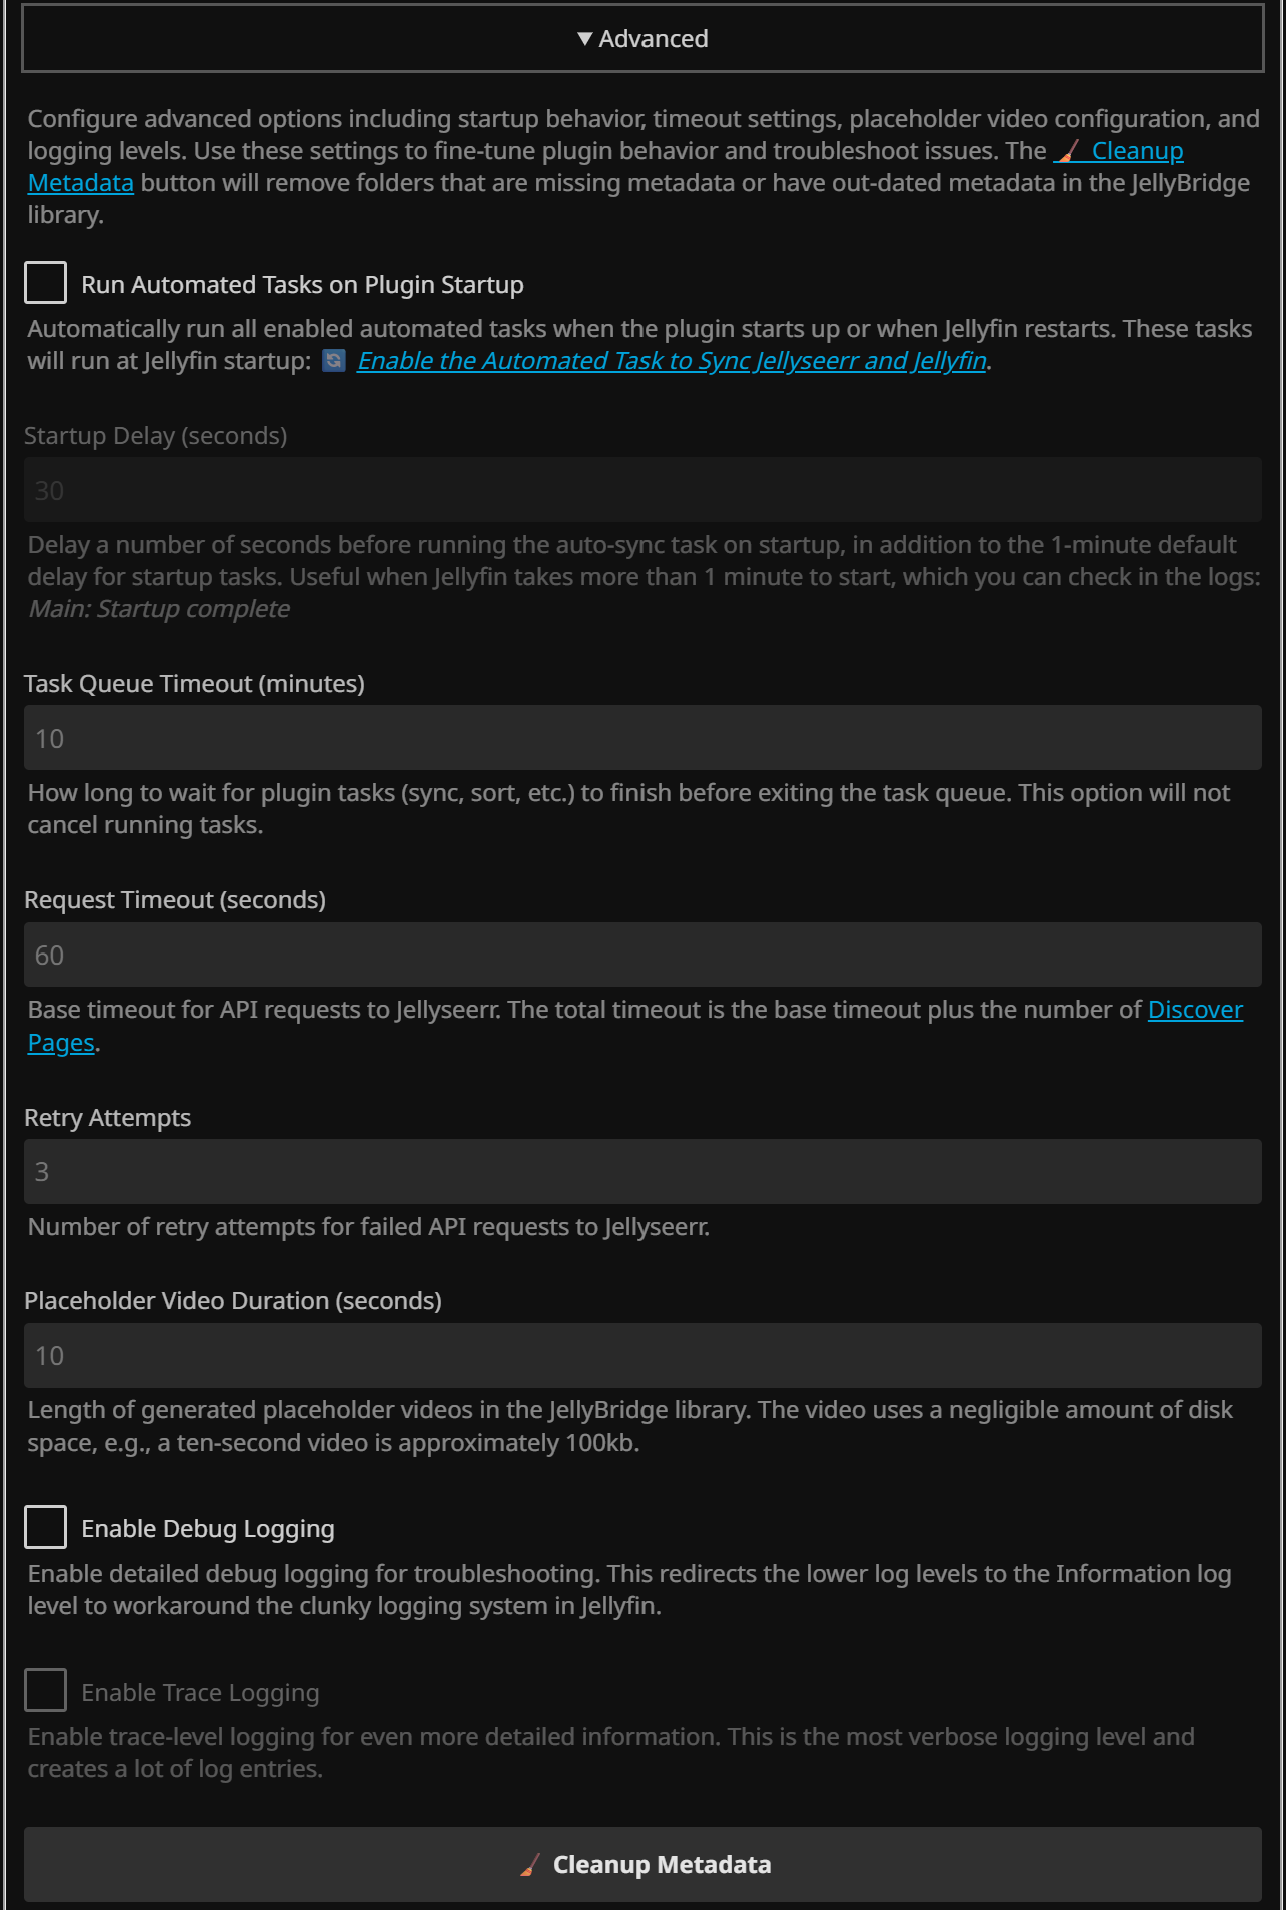
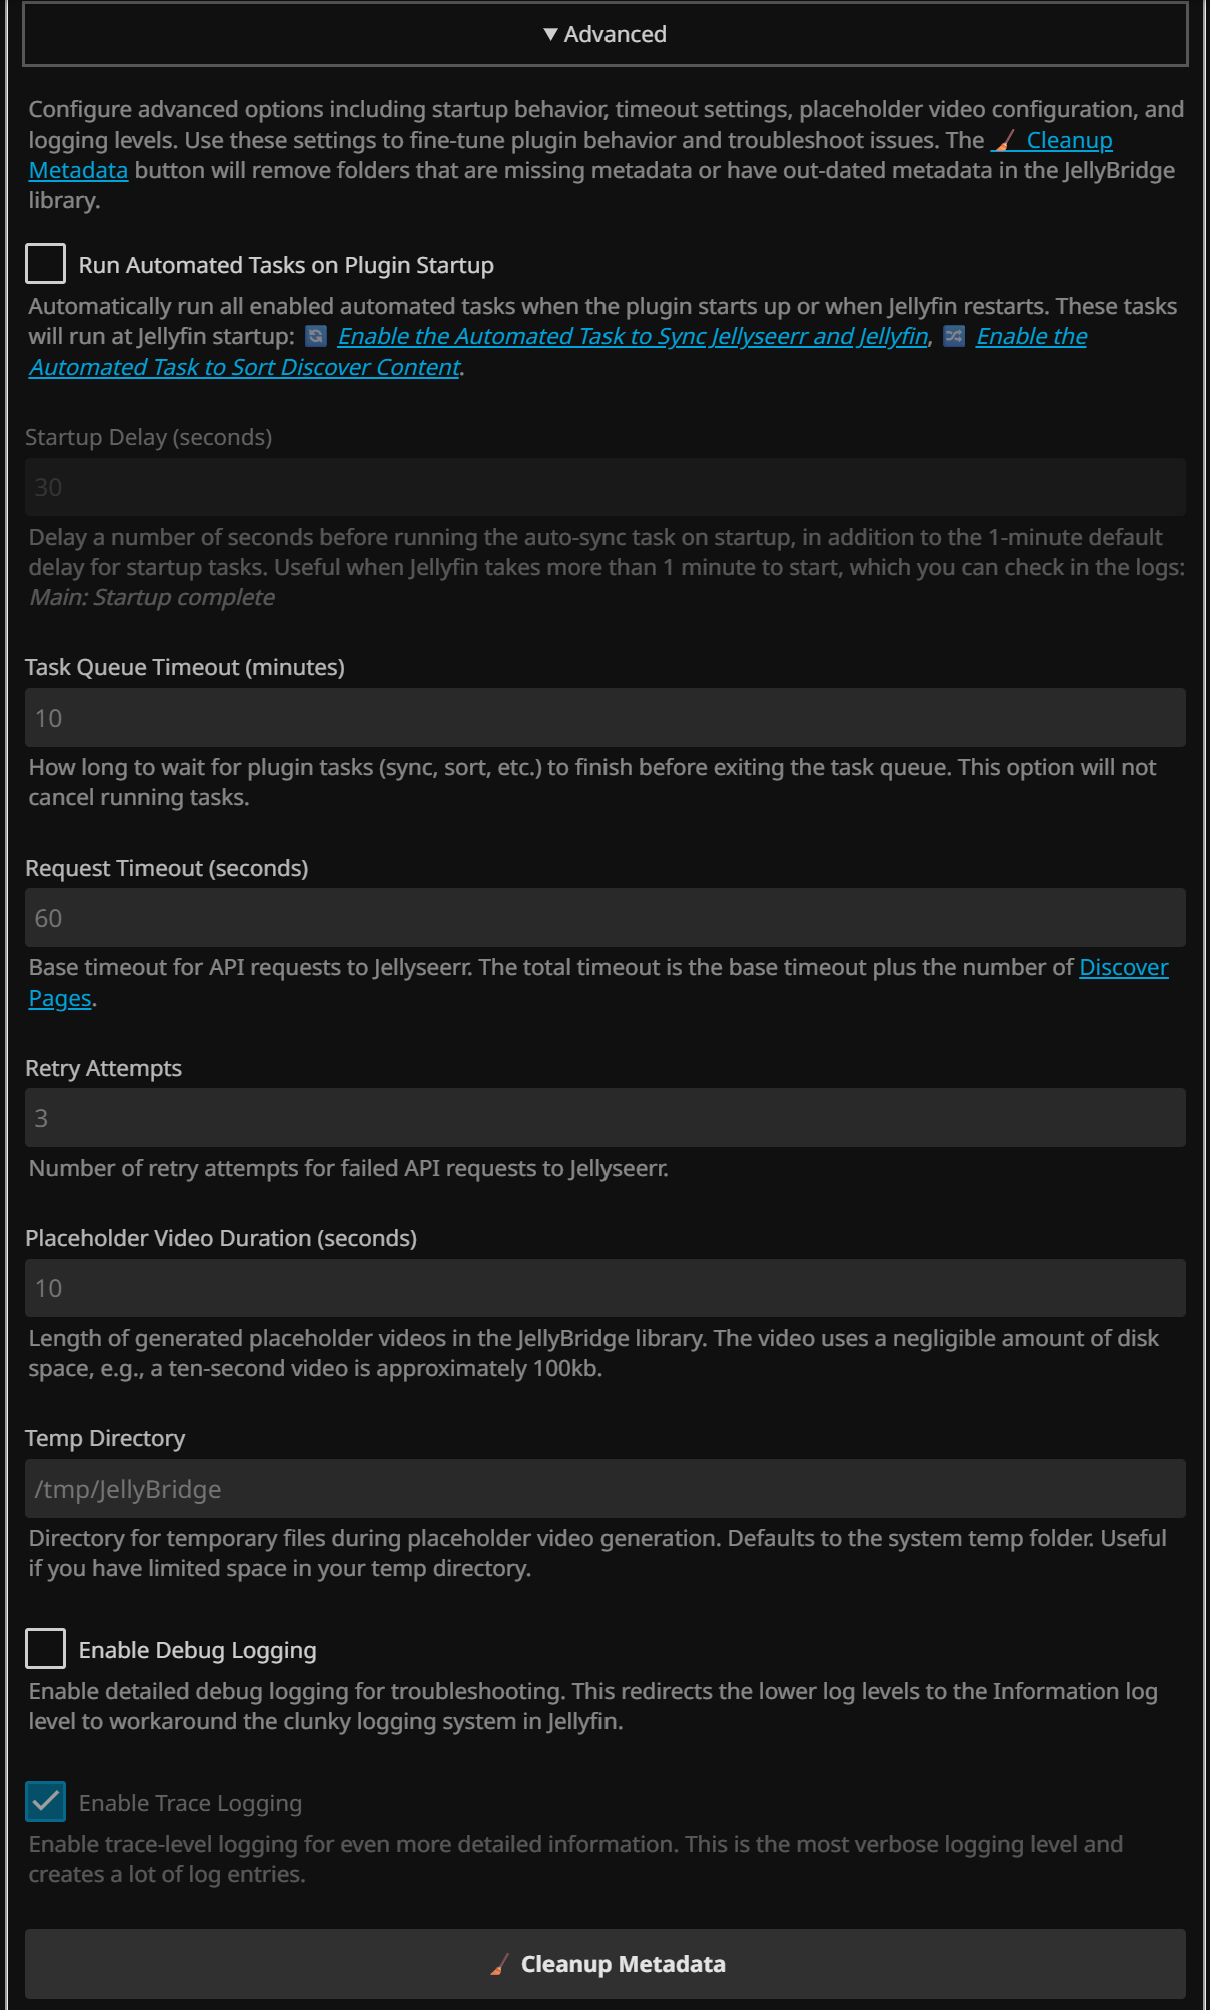
updating docs

diff --git a/src/Jellyfin.Plugin.JellyBridge/Configuration/ConfigurationPage.html b/src/Jellyfin.Plugin.JellyBridge/Configuration/ConfigurationPage.html
@@ -459,7 +459,7 @@
                     </div>
 
                     <div class="inputContainer" id="SyncIntervalHoursContainer">
-                        <input is="emby-input" type="number" id="SyncIntervalHours" label="Sync Interval (Hours)" min="0" max="168" step="0.1"/>
+                        <input is="emby-input" type="number" id="SyncIntervalHours" label="Sync Interval (hours)" min="0" max="168" step="0.1"/>
                         <div class="fieldDescription">Defines how often to run the scheduled sync task, allowing partial hours, e.g., 1.5. Set to 0 to disable automatic syncing. <i>Note: Jellyfin delays scheduled tasks for exactly one hour after first-time install and some version upgrades of the plugin.</i></div>
                     </div>
 
@@ -597,7 +597,7 @@
                         </div>
 
                         <div class="inputContainer">
-                            <input id="MaxRetentionDays" type="number" is="emby-input" min="1" label="Content Retention Time (Days)"/>
+                            <input id="MaxRetentionDays" type="number" is="emby-input" min="1" label="Content Retention Time (days)"/>
                             <div class="fieldDescription">Maximum number of days to retain items in the collection before cleanup. JellyBridge items older than this will be removed after running the import task.</div>
                         </div>
 
@@ -765,7 +765,7 @@
                         </div>
 
                         <div class="inputContainer" id="SortTaskIntervalHoursContainer">
-                            <input is="emby-input" type="number" id="SortTaskIntervalHours" label="Sort Task Interval (Hours)" min="0" max="168" step="0.1"/>
+                            <input is="emby-input" type="number" id="SortTaskIntervalHours" label="Sort Task Interval (hours)" min="0" max="168" step="0.1"/>
                             <div class="fieldDescription">Defines how often to run the sort task, allowing partial hours, e.g., 1.5. Set to 0 to disable automatic sort randomization. <i>Note: Jellyfin delays scheduled tasks for exactly one hour after first-time install and some version upgrades of the plugin.</i></div>
                         </div>
 

diff --git a/src/Jellyfin.Plugin.JellyBridge/Configuration/PluginConfiguration.cs b/src/Jellyfin.Plugin.JellyBridge/Configuration/PluginConfiguration.cs
@@ -54,6 +54,7 @@ public class PluginConfiguration : BasePluginConfiguration
             }
         },
         { nameof(MaxDiscoverPages), 1 },
+        { nameof(MaxRetentionDays), 30 },
 
         // Library Settings
         { nameof(ManageJellyseerrLibrary), true },
@@ -74,14 +75,10 @@ public class PluginConfiguration : BasePluginConfiguration
         { nameof(TaskTimeoutMinutes), 10 },
         { nameof(RequestTimeout), 60 },
         { nameof(RetryAttempts), 3 },
-        { nameof(MaxRetentionDays), 30 },
         { nameof(PlaceholderDurationSeconds), 10 },
         { nameof(JellyBridgeTempDirectory), Path.Combine(Path.GetTempPath(), "JellyBridge") },
         { nameof(EnableDebugLogging), false },
         { nameof(EnableTraceLogging), false },
-
-        // Internal flags
-        // { nameof(RanFirstTime), false }
     };
 
     // ===== General =====
@@ -146,6 +143,12 @@ public class PluginConfiguration : BasePluginConfiguration
     /// This applies to both movies and TV shows discovery.
     /// </summary>
     public int? MaxDiscoverPages { get; set; }
+
+    /// <summary>
+    /// Gets or sets the maximum number of days to retain items in the collection before cleanup.
+    /// Items older than this will be removed during sync operations.
+    /// </summary>
+    public int? MaxRetentionDays { get; set; }
 
     /// <summary>
     /// Gets or sets whether to manage libraries with JellyBridge.
@@ -215,12 +218,6 @@ public class PluginConfiguration : BasePluginConfiguration
     /// Gets or sets the number of retry attempts.
     /// </summary>
     public int? RetryAttempts { get; set; }
-
-    /// <summary>
-    /// Gets or sets the maximum number of days to retain items in the collection before cleanup.
-    /// Items older than this will be removed during sync operations.
-    /// </summary>
-    public int? MaxRetentionDays { get; set; }
 
     /// <summary>
     /// Gets or sets the default duration (in seconds) for generated placeholder videos.

diff --git a/src/Jellyfin.Plugin.JellyBridge/BridgeModels/JellyseerrApiResults.cs b/src/Jellyfin.Plugin.JellyBridge/BridgeModels/JellyseerrApiResults.cs
@@ -339,7 +339,7 @@ public class CleanupResult
         result.AppendLine($"{rowBorder}");
         // Data rows
         result.AppendLine($"{separator}{"📦\t"}{"Processed",-10}{separator}{$"{MoviesProcessed,8}  "}{separator}{$"{ShowsProcessed,8}  "}{separator}{$"{TotalProcessed,8}  "}{separator}");
-        result.AppendLine($"{separator}{"📦\t"}{"Created",-10}{separator}{$"{MoviesCreated,8}  "}{separator}{$"{ShowsCreated,8}  "}{separator}{$"{TotalCreated,8}  "}{separator}");
+        result.AppendLine($"{separator}{"➕\t"}{"Created",-10}{separator}{$"{MoviesCreated,8}  "}{separator}{$"{ShowsCreated,8}  "}{separator}{$"{TotalCreated,8}  "}{separator}");
         result.AppendLine($"{separator}{"🗑\t"}{"Deleted",-10}{separator}{$"{MoviesDeleted,8}  "}{separator}{$"{ShowsDeleted,8}  "}{separator}{$"{TotalDeleted,8}  "}{separator}");
         result.AppendLine($"{separator}{"🧹\t"}{"Cleaned",-10}{separator}{$"{MoviesCleaned,8}  "}{separator}{$"{ShowsCleaned,8}  "}{separator}{$"{ItemsCleaned,8}  "}{separator}");
         

diff --git a/README.md b/README.md
@@ -122,13 +122,13 @@ The plugin provides a comprehensive web-based configuration interface with the f
 
 ![Plugin Configuration - General Settings](Screenshots/General.png)
 
-- **Jellyseerr URL**: The web address where your Jellyseerr instance is accessible to Jellyfin.
-- **API Key**: Authentication key that allows the plugin to communicate with Jellyseerr.
-- **Library Directory**: Path where JellyBridge stores its files. Use a dedicated directory for this plugin.
-- **Enable the Automated Task to Sync Jellyseerr and Jellyfin**: Turns on automatic syncing on a schedule.
-- **Sync Interval (Hours)**: How often the plugin automatically syncs content (hours).
+- **Jellyseerr URL**: The web address where your Jellyseerr instance is accessible to Jellyfin
+- **API Key**: Authentication key that allows the plugin to communicate with Jellyseerr
+- **Library Directory**: Path where JellyBridge stores its files. Use a dedicated directory for this plugin
+- **Enable the Automated Task to Sync Jellyseerr and Jellyfin**: Turns on automatic syncing on a schedule
+- **Sync Interval (hours)**: How often the plugin automatically syncs content
 - **Test Connection with Jellyseerr**: Verifies that the plugin can successfully connect to your Jellyseerr instance
-- **Automated Sync Status**: Displays the current sync status, current progress, last sync time, and next scheduled sync time.
+- **Automated Sync Status**: Displays the current sync status, current progress, last sync time, and next scheduled sync time
 - **Library Setup Instructions**: Click the "Setup" button (?) next to the automated task checkbox to view library setup instructions and troubleshooting.
 
 ### 🔍 Import Discover Content
@@ -138,7 +138,7 @@ The plugin provides a comprehensive web-based configuration interface with the f
 - **Watch Region**: Which geographic region to search for available networks
 - **Network Services**: Choose networks to import discover content from
 - **Discover Pages**: The number of pages to import per network
-- **Content Retention Time (Days)**: How long to keep discover content before automatic cleanup
+- **Content Retention Time (days)**: How long to keep discover content before automatic cleanup
 - **Import Discover Content from Jellyseerr into JellyBridge Library**: Manually trigger the task
 
 ### 📁 Manage Discover Library
@@ -161,7 +161,7 @@ The plugin provides a comprehensive web-based configuration interface with the f
 ![Sort Discover Content](Screenshots/Sort.png)
 
 - **Enable the Automated Task to Sort Discover Content**: Periodically updates play counts to drive sort order for all users
-- **Sort Task Interval (Hours)**: How often to run the sort task
+- **Sort Task Interval (hours)**: How often to run the sort task
 - **Sort Order**: Choose algorithm
   - **None**: Sets all play counts to zero
   - **Random**: Randomizes play counts
@@ -182,6 +182,7 @@ The plugin provides a comprehensive web-based configuration interface with the f
 - **Request Timeout (seconds)**: Jellyseerr API requests wait time
 - **Retry Attempts**: Number of retry attempts for failed API requests to Jellyseerr
 - **Placeholder Video Duration (seconds)**: A short video teaching users how to request the discover content
+- **Temp Directory**: Path for generating placeholder files, usually the operating system default
 - **Enable Debug Logging**: Normal logging
 - **Enable Trace Logging**: Huge logs
 - **Cleanup Metadata**: Button to manually clean up metadata in the JellyBridge library
